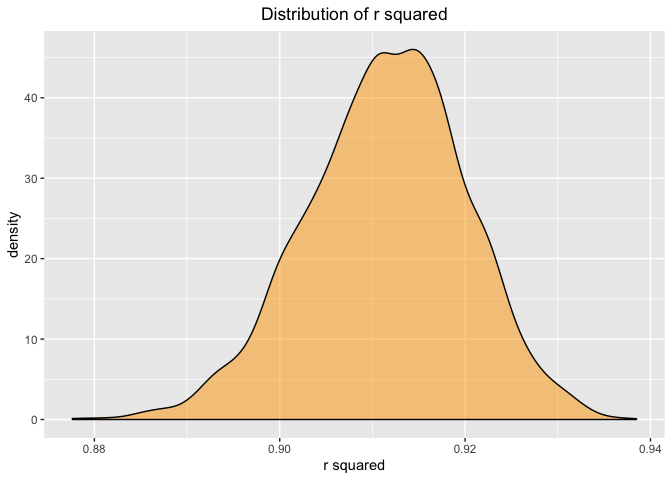
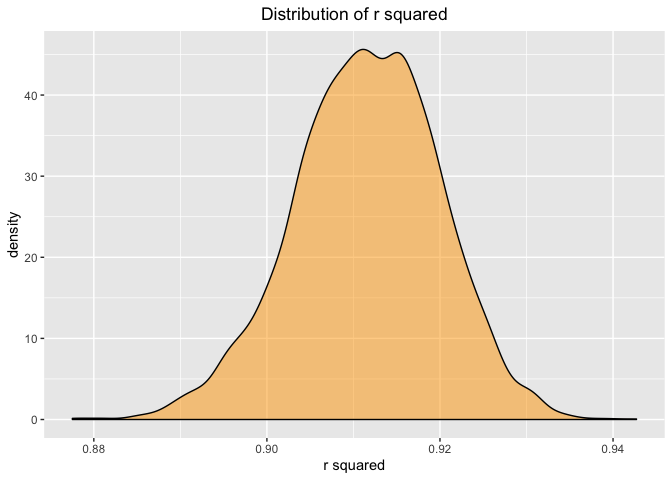
change some error

diff --git a/P8105_hw6_fj2269.md b/P8105_hw6_fj2269.md
@@ -90,7 +90,9 @@ significant. Adjusted R-squared is 0.2319. 23% of the variance found in
 the response variable (birth weight) can be explained by the predictor
 variable
 
-The fitting formula of this model is as below: \[
+The fitting formula of this model is as below:
+
+\[
 Y_{bwt}=-275.69+10X_{age}+5.44X_{weight}+60.76X_{GA}
 \]
 
@@ -269,16 +271,16 @@ bootstrap_weather
     ## # A tibble: 5,000 x 2
     ##    r.squared   log
     ##        <dbl> <dbl>
-    ##  1     0.904  2.03
-    ##  2     0.913  2.02
-    ##  3     0.912  2.06
-    ##  4     0.919  1.99
-    ##  5     0.920  2.03
-    ##  6     0.918  2.04
-    ##  7     0.913  2.01
-    ##  8     0.914  1.96
-    ##  9     0.913  2.02
-    ## 10     0.913  2.05
+    ##  1     0.915  2.02
+    ##  2     0.893  2.03
+    ##  3     0.907  2.00
+    ##  4     0.912  1.97
+    ##  5     0.920  2.01
+    ##  6     0.911  2.02
+    ##  7     0.914  2.02
+    ##  8     0.917  2.02
+    ##  9     0.911  2.02
+    ## 10     0.922  2.00
     ## # … with 4,990 more rows
 
 Plot the distribution of two quantity
@@ -296,7 +298,7 @@ plot_boot1
 
 through cruve above is still skewed for its left tail is longer than the
 right one. The distribution of r squared is closed to normal
-distribution. Its mean is 0.9115, its sd is 0.0086
+distribution. Its mean is 0.9115, its sd is 0.0084
 
 ``` r
 plot_boot2 = bootstrap_weather %>%
@@ -311,25 +313,25 @@ plot_boot2
 
 Through the distribution of value on the peak of this cruve is a little
 bit irregular.The distribution of log of estimated beta0 multiple beta1
-is closed to normal distribution. Its mean is 2.0126, its sd is 0.0236
+is closed to normal distribution. Its mean is 2.013, its sd is 0.0244
 
 95% CI for r squared and
 log(beta0\*beta1)
 
 ``` r
-lower_limit_r = quantile(pull(bootstrap_weather,r.squared), probs = c(0.05, 0.95)) %>% 
+lower_limit_r = quantile(pull(bootstrap_weather,r.squared), probs = c(0.025, 0.975)) %>% 
   .[[1]] %>%
   round(., 3)
-upper_limit_r = quantile(pull(bootstrap_weather,r.squared), probs = c(0.05, 0.95)) %>% 
+upper_limit_r = quantile(pull(bootstrap_weather,r.squared), probs = c(0.025, 0.975)) %>% 
   .[[2]] %>%
   round(., 3)
-lower_limit_log = quantile(pull(bootstrap_weather,log), probs = c(0.05, 0.95)) %>% 
+lower_limit_log = quantile(pull(bootstrap_weather,log), probs = c(0.025, 0.975)) %>% 
   .[[1]] %>%
   round(., 3)
-upper_limit_log = quantile(pull(bootstrap_weather,log), probs = c(0.05, 0.95)) %>% 
+upper_limit_log = quantile(pull(bootstrap_weather,log), probs = c(0.025, 0.975)) %>% 
   .[[2]] %>%
   round(., 3)
 ```
 
-The 95% CI for r squared is (0.897, 0.925), The 95% CI for
-log(beta0\*beta1) is (1.973, 2.05)
+The 95% CI for r squared is (0.894, 0.927), The 95% CI for
+log(beta0\*beta1) is (1.964, 2.059)
